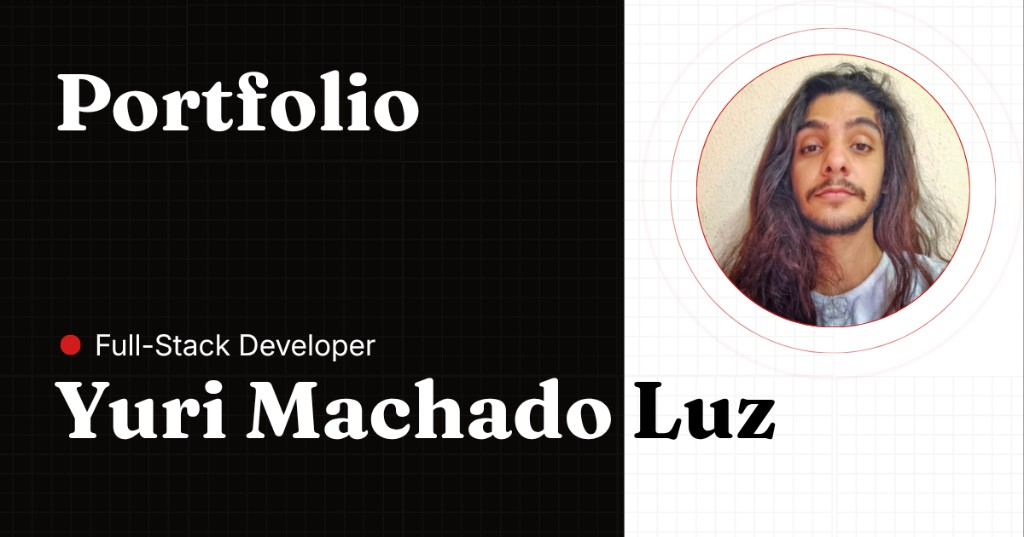
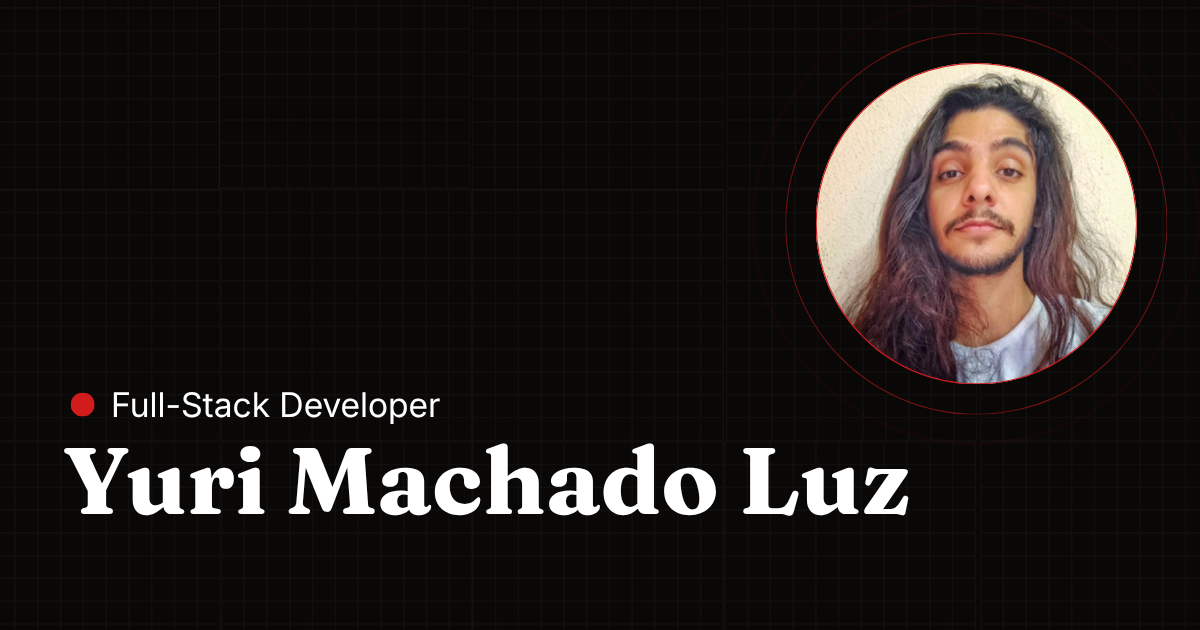
chore(og): altera imagem de página inicial e modifica tamanho de OG

diff --git a/src/meta.ts b/src/meta.ts
@@ -31,8 +31,8 @@ export const ASSETS = {
   },
   og: {
     size: {
-      width: 1024,
-      height: 537,
+      width: 1200,
+      height: 630,
     },
     images: {
       portfolio: {
